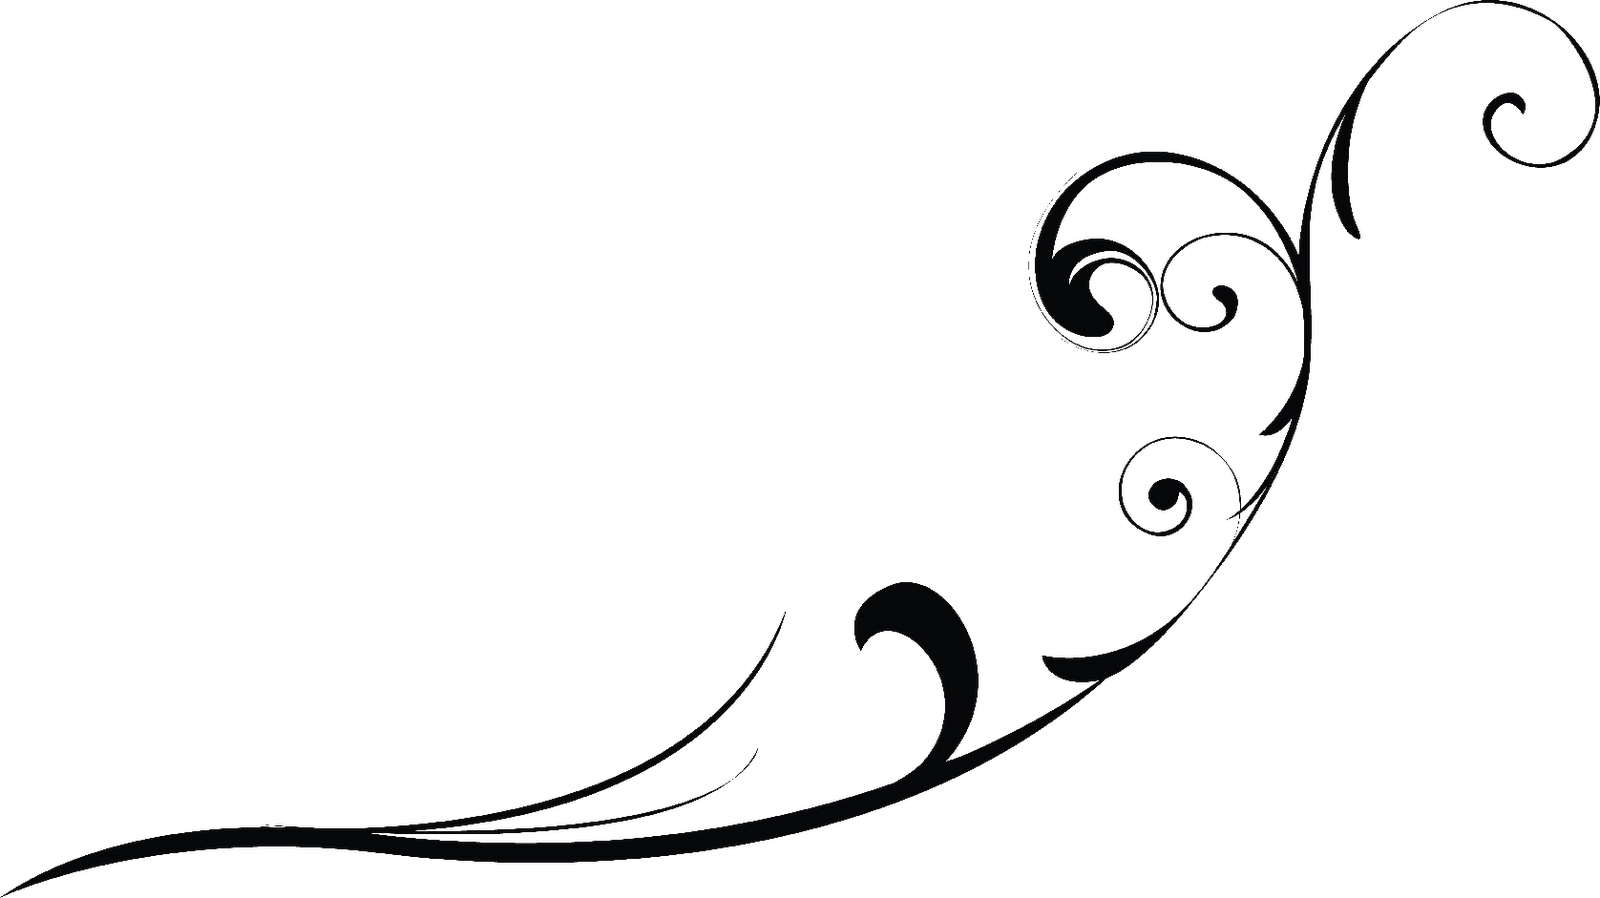
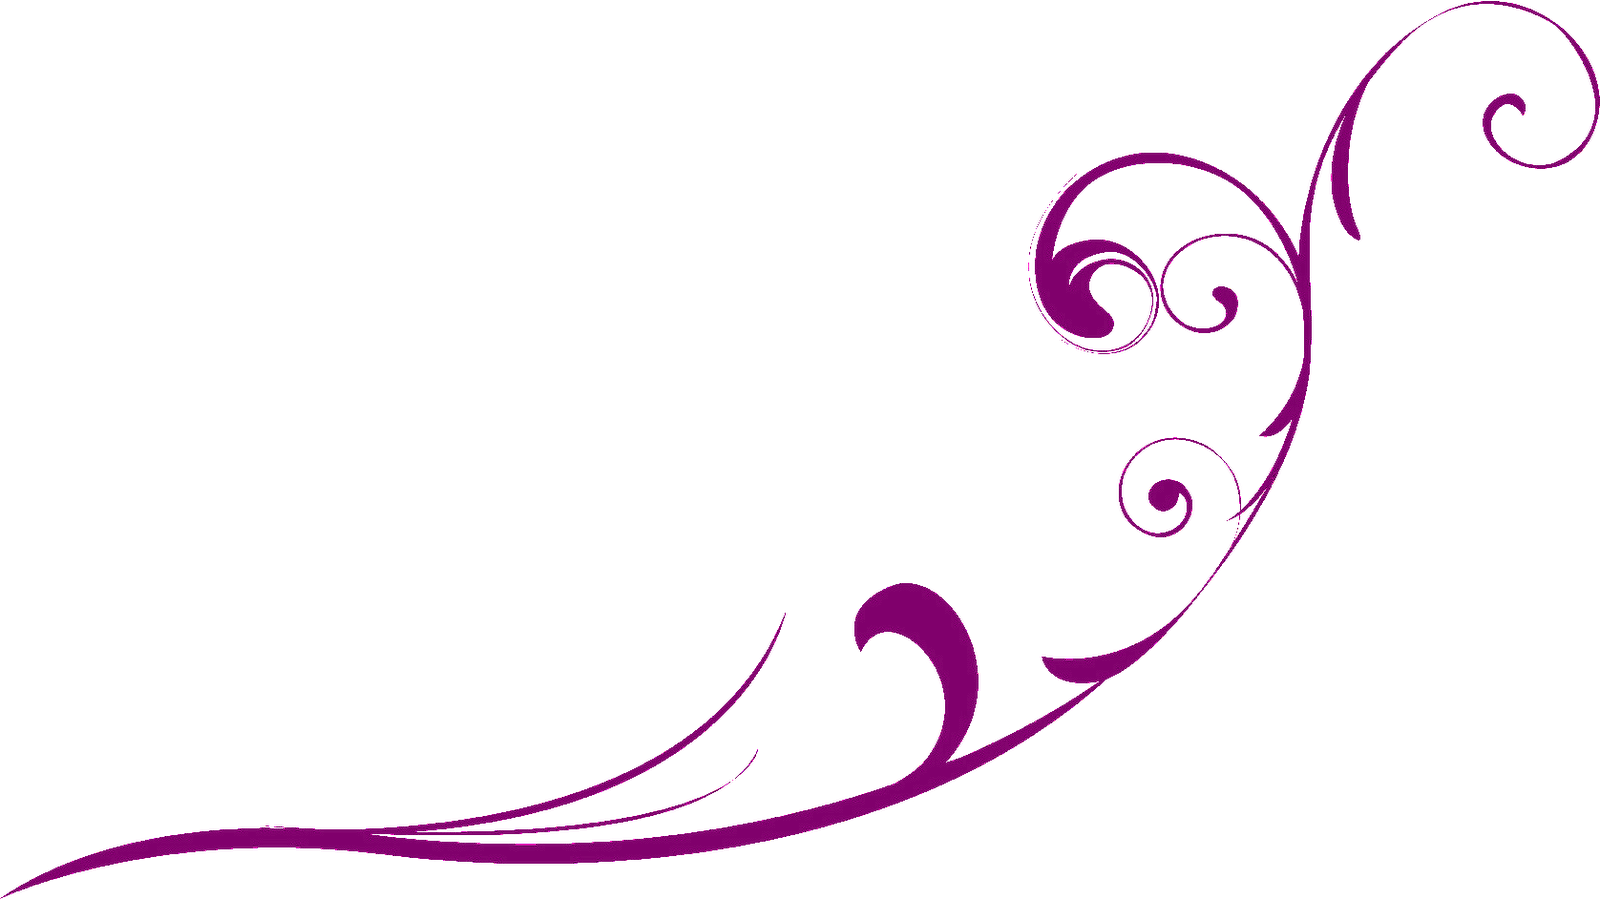
fix title

diff --git a/_layouts/default.html b/_layouts/default.html
@@ -33,41 +33,9 @@
       margin: auto;
     }
 
-    h1, h2 {
-      font-family: 'Playfair Display', serif;
-      color: var(--accent);
-    }
-
-    a {
-      color: #f4f4f4;
-      text-decoration: none;
-    }
-
-    a:hover {
-      color: var(--accent);
-    }
-
-    a.back-home {
-      color: #f4f4f4;
-      text-decoration: none;
-    }
-
-    a.back-home:hover {
-      color: var(--accent);
-    }
-
-    nav {
-      text-align: center;
-      margin: 40px 0;
-    }
-
-    nav a {
-      margin: 0 15px;
-      font-weight: 300;
-    }
-
-    nav a.active {
-      color: var(--accent);
+    img {
+      max-width: 100%;
+      height: auto;
     }
 
     .logo-circle {
@@ -79,7 +47,8 @@
       border-radius: 50%;
       background-color: var(--accent);
       color: #1a1a2e;
-      font-family: 'Great Vibes', cursive;
+      font-family: 'Great Vibes';
+      font-weight: bold;
       font-size: 1.5rem;
       display: flex;
       align-items: center;
@@ -95,6 +64,93 @@
     .hero {
       padding: 100px 20px 40px;
       text-align: center;
+      color: #f4f4f4;
+    }
+
+    h1 {
+      font-family: 'Playfair Display', serif;
+      font-size: 4rem;
+      letter-spacing: 0.2em;
+      margin-bottom: 0.2em;
+      color: var(--accent);
+    }
+
+    .hero h1 a {
+      text-decoration: none;
+      color: inherit;
+    }
+
+    .hero h1 a:hover {
+      color: var(--accent);
+    }
+
+    h2 {
+      color: var(--accent);
+    }
+
+    p.tagline {
+      font-style: italic;
+      font-size: 1.2rem;
+      color: #ddd;
+    }
+
+    nav {
+      text-align: center;
+      margin: 40px 0;
+    }
+
+    nav a {
+      margin: 0 15px;
+      font-weight: 300;
+    }
+
+    nav a:hover,
+    nav a.active {
+      color: var(--accent);
+    }
+
+    a.back-home {
+      color: #f4f4f4;
+      text-decoration: none;
+    }
+
+    a.back-home:hover {
+      color: var(--accent);
+    }
+
+    footer {
+      text-align: center;
+      font-size: 0.8rem;
+      color: #888;
+      padding: 40px 20px;
+    }
+
+    .social-icons {
+      margin-top: 15px;
+    }
+
+    .social-icons a {
+      margin: 0 15px;
+      font-size: 2rem;
+      text-decoration: none;
+      transition: transform 0.3s ease;
+    }
+
+    .social-icons a:hover {
+      transform: scale(1.2);
+    }
+
+    .social-icons a[aria-label="Instagram"] {
+      color: #E1306C; /* Instagram brand color */
+    }
+
+    .social-icons a[aria-label="YouTube"] {
+      color: #FF0000; /* YouTube brand color */
+    }
+
+    .social-icons .disabled {
+      opacity: 0.4;
+      pointer-events: none;
       color: #f4f4f4;
     }
 
@@ -117,6 +173,19 @@
     }    
 
     @media (max-width: 480px) {
+      h1 {
+        font-size: 2.5rem;
+        letter-spacing: 0.1em;
+      }
+
+      .hero {
+        padding: 60px 20px 30px;
+      }
+
+      .tagline {
+        font-size: 1rem;
+      }
+
       body {
         padding: 40px 20px;
       }
@@ -124,6 +193,10 @@
       nav a {
         display: block;
         margin: 10px 0;
+      }
+
+      section {
+        margin: 40px auto;
       }
     }
 
@@ -156,43 +229,6 @@
       right: 0;
       transform: scaleX(-1) scaleY(-1);
     }
-
-    footer {
-      text-align: center;
-      font-size: 0.8rem;
-      color: #888;
-      padding: 40px 20px;
-    }
-
-    .social-icons {
-     margin-top: 15px;
-    }
-
-    .social-icons a {
-      margin: 0 15px;
-      font-size: 2rem;
-      text-decoration: none;
-      transition: transform 0.3s ease;
-    }
-
-    .social-icons a:hover {
-      transform: scale(1.2);
-    }
-
-    .social-icons a[aria-label="Instagram"] {
-      color: #E1306C; /* Instagram brand color */
-    }
-
-    .social-icons a[aria-label="YouTube"] {
-      color: #FF0000; /* YouTube brand color */
-    }
-
-    .social-icons .disabled {
-      opacity: 0.4;
-      pointer-events: none;
-      color: #f4f4f4;
-    }
-
   </style>
 </head>
 <body>
@@ -219,7 +255,5 @@
     <p><em>Spotify page coming soon.</em></p>
     <p>&copy; 2025 VELLUNEA. all rights reserved.</p>
   </footer>
-  
-
 </body>
 </html>